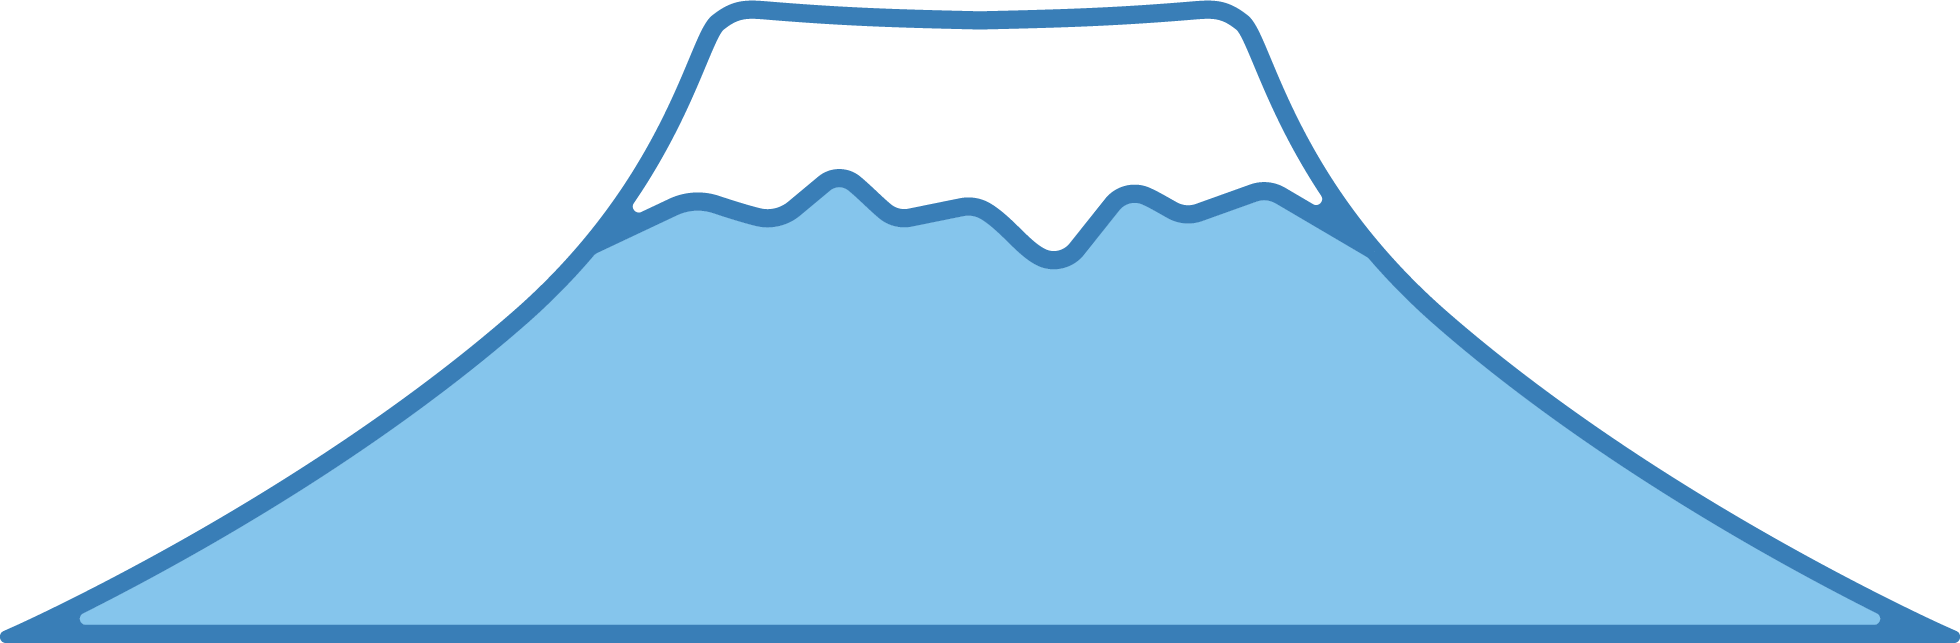
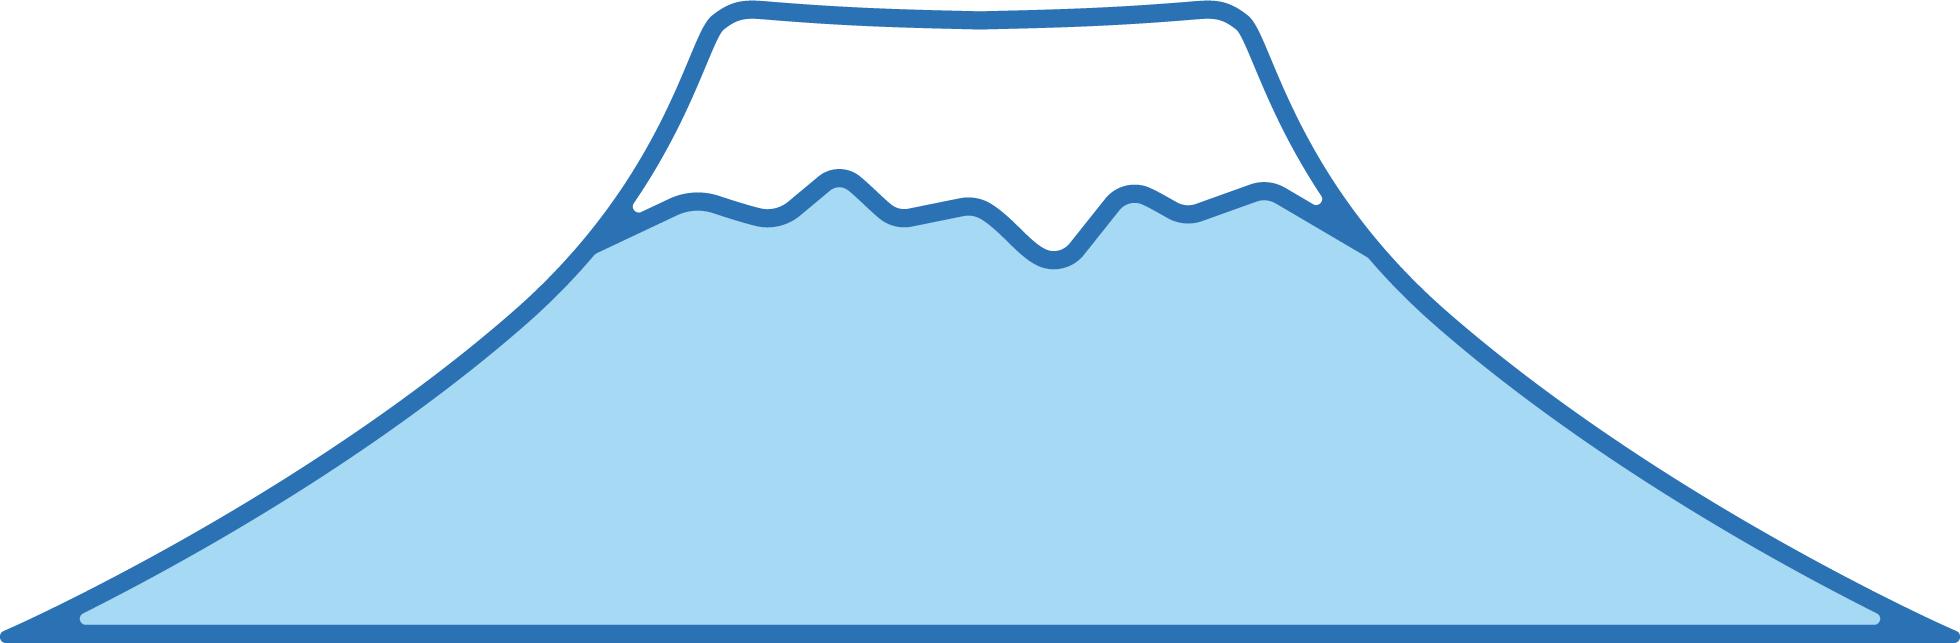
0703_4

diff --git a/css/custom.css b/css/custom.css
@@ -4,7 +4,7 @@
     box-sizing: border-box;
 }
 :root {
-    --blue: #203486;
+    --blue: #2b72b5;
 
 }
 h1,h2,h3,h4,h5,h6 {
@@ -104,16 +104,20 @@ figure img{
     width: 100vw;
     height: 100vh;
     display: flex;
-    /* text-align:center; */
 }
 
 
+.section{
+    background-color: #ffffff;
+}
 
 
+.headercloud , #shinkansen , #sun , #fujimountain , #headerlet , #headergo{
+    position: absolute;
+}
 
 .headercloud{
-    width: 18vw;
-    position: absolute;
+    width: 20vw;
     z-index: 3;
 }
 
@@ -134,46 +138,18 @@ figure img{
     animation: MoveToRight 5s 2s ;
     animation-fill-mode:forwards;
 }
-
 @keyframes MoveToRight {
     from { right: 20vw; }
     to { right: 5vw; }
 }
 
-
-.section{
-    background-color: #ffffff;
-}
-
-
 #shinkansen{
     height: 5vh;
-    position: absolute;
-    bottom: 0;
+    bottom: 0vh;
     z-index: 3;
-    right: -100vw;
-    animation: Rail 10s 2s ;
-    animation-fill-mode:forwards;
 }
-
-@keyframes Rail {
-    from { right: -100vw; }
-    to { right: 100vw; }
-}
-
-
-#headername{
-    position: absolute;
-    right: 0;
-    left: 0;
-    margin: 0 auto;
-    z-index: 1;
-
-}
-
 
 #sun{
-    position: absolute;
     z-index: 0;
     right: 0;
     left: 0;
@@ -182,23 +158,41 @@ figure img{
 
 #fujimountain{
     z-index: 2;
-    position: absolute;
     bottom: 0vh;
-    
 }
+
+#headerlet , #headergo{
+    opacity: 0;
+}
+
+#fujiLivecamera{
+    width: 560px;
+    height: 315px;
+    position: absolute;
+    right: 0;
+    left: 0;
+    margin: 0 auto;
+ }
+
 @media (min-width: 1200px) { 
-    #headername{
-        width: 30vw;
-        bottom: 40vh;
-        animation: NameRise 5s 2s;
-        /* 動畫停在最後一個位置 */
+    #headerlet , #headergo{
+        width: 20vw;
+        top: 3vh;
+        animation: letgo_l 5s 2s;
         animation-fill-mode:forwards; 
     }
-    @keyframes NameRise {
-        from{bottom: 40vh;}
-        to{bottom: 60vh;}
-        
+    #headerlet{
+        left: 3vw;
     }
+    #headergo{
+        left: 12vw;
+    }
+    @keyframes letgo_l {
+        0% {opacity: 0;}
+        40% {opacity: 0;}
+        100% {opacity: 1;}
+    }
+    
     #fujimountain{
         width: 100%;
         right: 0;
@@ -215,20 +209,35 @@ figure img{
         from { bottom: -30vh; }
         to { bottom: 5vh; }
     }
+    #shinkansen{
+        right: -100vw;
+        animation: Rail 10s 2s ;
+        animation-fill-mode:forwards;
+    }
+    @keyframes Rail {
+        from { right: -100vw; }
+        to { right: 100vw; }
+    }
 }
 
 @media (min-width: 576px) and (max-width: 1199.99px) { 
-    #headername{
-        width: 45vw;
-        bottom: 10vh;
-        animation: NameRise 5s 2s;
-        /* 動畫停在最後一個位置 */
+    #headerlet , #headergo{
+        width: 28vw;
+        animation: letgo_m 5s 2s;
         animation-fill-mode:forwards; 
     }
-    @keyframes NameRise {
-        from{bottom: 10vh;}
-        to{bottom: 40vh;}
-        
+    #headerlet{
+        left: 5vw;
+        top: 3vh;
+    }
+    #headergo{
+        left: 15vw;
+        top: 7vh;
+    }
+    @keyframes letgo_m {
+        0% {opacity: 0;}
+        40% {opacity: 0;}
+        100% {opacity: 1;}
     }
     #fujimountain{
         width: 100%;
@@ -244,23 +253,40 @@ figure img{
     }
     @keyframes SunRise_m {
         from { bottom: -30vh; }
-        to { bottom: 10vh; }
+        to { bottom: 8vh; }
+    }
+    #shinkansen{
+        right: -165%;
+        animation: Rail_m 10s 2s ;
+        animation-fill-mode:forwards;
+    }
+    @keyframes Rail_m {
+        from { right: -165%; }
+        to { right: 100vw; }
     }
 }
 
 
 @media (max-width: 575.99px) { 
-    #headername{
-        width: 70vw;
-        bottom: 20vh;
-        animation: NameRise_s 5s 2s;
-        /* 動畫停在最後一個位置 */
+
+    #headerlet , #headergo{
+        width: 50vw;
+        transform: rotate(12.5deg);
+        animation: letgo_s 5s 2s;
         animation-fill-mode:forwards; 
     }
-    @keyframes NameRise_s {
-        from{bottom: 20vh;}
-        to{bottom: 35vh;}
-        
+    #headerlet{
+        left: 15vw;
+        top: 8vh;
+    }
+    #headergo{
+        top: 15vh;
+        left: 35vw;
+    }
+    @keyframes letgo_s {
+        0% {opacity: 0;}
+        40% {opacity: 0;}
+        100% {opacity: 1;}
     }
     #fujimountain{
         width: 180%;
@@ -273,15 +299,21 @@ figure img{
         animation-fill-mode:forwards;
     }
     @keyframes SunRise_s {
-            from { bottom: -15vh; }
-            to { bottom: 18vh; }
+        from { bottom: -15vh; }
+        to { bottom: 8vh; }
+    }
+    #shinkansen{
+        right: -200%;
+        animation: Rail_s 10s 2s ;
+        animation-fill-mode:forwards;
+    }
+    @keyframes Rail_s {
+        from { right: -200%; }
+        to { right: 100vw; }
+    }
+    #fujiLivecamera{
+        width: 312px;
+        height: 175.5px;
     }
  }
 
-/* @media (min-width: 576px) and (max-width: 767.99px) { ... }
-
-@media (min-width: 768px) and (max-width: 991.99px) { ... }
-
-@media (min-width: 992px) and (max-width: 1199.99px) { ... }
-
-@media (min-width: 1200px) { ... } */

diff --git a/index.html b/index.html
@@ -25,9 +25,10 @@
             <img id="fujimountain" src="./img/1x/fujimountain.png" alt="">
             <img id="leftcloud" class="headercloud" src="./img/1x/cloud_left.png" alt="">
             <img id="rightcloud" class="headercloud" src="./img/1x/cloud_right.png" alt="">
-            <img id="headername" src="./img/1x/title.png" alt="">
             <img id="sun" src="./img/1x/sun.png" alt="">
             <img id="shinkansen" src="./img/1x/shinkansen_2.png" alt="">
+            <img id="headerlet" src="./img/1x/let.png" alt="">
+            <img id="headergo" src="./img/1x/go.png" alt="">
         </div>
         <div id="info" class="section">
             <h1>登山資訊</h1>
@@ -83,6 +84,8 @@
 
         </div>
         <div id="medias" class="section">
+            <h3>Live Camera</h3>
+            <iframe id="fujiLivecamera" src="https://www.youtube.com/embed/tLQOIro0kgc" frameborder="0" allow="accelerometer; autoplay; clipboard-write; encrypted-media; gyroscope; picture-in-picture" allowfullscreen></iframe>
 
         </div>
         <div id="traffic" class="section">
@@ -90,6 +93,7 @@
 
         </div>
         <div id="qa" class="section">
+            <h3>Q&A</h3>
 
         </div>
         <div id="travelaround" class="section">
